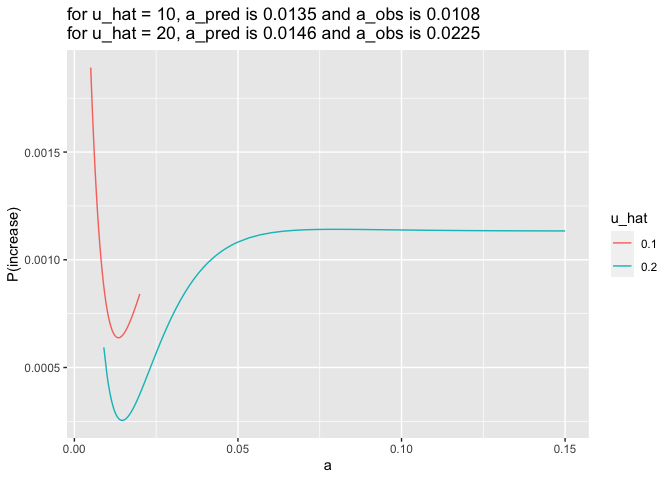
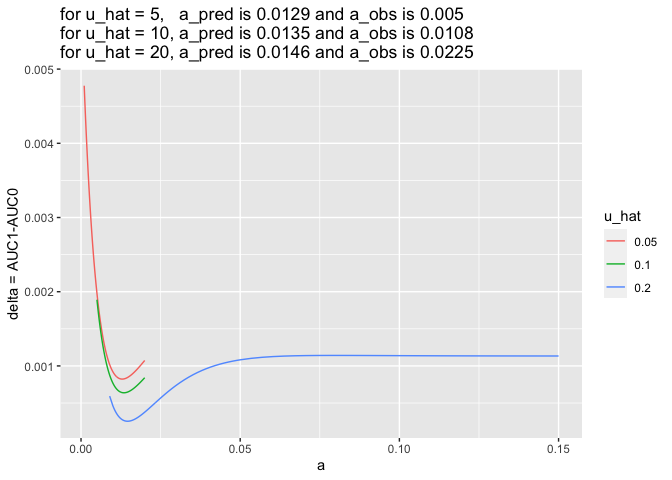
added u5

diff --git a/cluster/uhat_comparison.md b/cluster/uhat_comparison.md
@@ -3,7 +3,7 @@ uhat_comparison
 Isabel Kim
 3/30/2022
 
-## u_hat = 10 vs u_hat = 20 - a vs P(increase) on the same axes
+## u_hat = 5 vs u_hat = 10 vs u_hat = 20 - a vs P(increase) on the same axes
 
 ``` r
 library(tidyverse)
@@ -52,7 +52,21 @@ summary_u20 = read_csv("/Users/isabelkim/Desktop/year2/underdominance/reaction-d
 ``` r
 obs_vs_pred_u20 = get_a_pred_and_a_obs(summary_u20)
 
-compiled = rbind(summary_u10, summary_u20)
+summary_u5 = read_csv("/Users/isabelkim/Desktop/year2/underdominance/reaction-diffusion/cluster/u_hat=0.05_run/csvs/uhat_5_u0.001_to_0.02_summary.csv")
+```
+
+    ## Rows: 216 Columns: 7
+    ## ── Column specification ────────────────────────────────────────────────────────
+    ## Delimiter: ","
+    ## dbl (7): a, sigma, beta, k, u_hat, delta, p_increase
+    ## 
+    ## ℹ Use `spec()` to retrieve the full column specification for this data.
+    ## ℹ Specify the column types or set `show_col_types = FALSE` to quiet this message.
+
+``` r
+obs_vs_pred_u5 = get_a_pred_and_a_obs(summary_u5)
+
+compiled = rbind(summary_u5,summary_u10, summary_u20)
 compiled$u_hat = as.character(compiled$u_hat)
 
 compiled_plot = ggplot(data = compiled, aes(x = a, y = p_increase, color = u_hat)) +
@@ -60,11 +74,17 @@ compiled_plot = ggplot(data = compiled, aes(x = a, y = p_increase, color = u_hat
   xlab("a") +
   ylab("P(increase)") +
   xlim(0, 0.05) +
-  geom_vline(xintercept = obs_vs_pred_u10$a_pred, color = "coral1") +
+  geom_vline(xintercept = obs_vs_pred_u5$a_pred, color = "coral1") +
+  geom_vline(xintercept = obs_vs_pred_u10$a_pred, color = "green") +
   geom_vline(xintercept = obs_vs_pred_u20$a_pred, color = "mediumturquoise") +
-  labs(title = paste0("for u_hat = 10, a_pred is ", round(obs_vs_pred_u10$a_pred,4), " and a_obs is ", round(obs_vs_pred_u10$a_obs, 4), "\nfor u_hat = 20, a_pred is ", round(obs_vs_pred_u20$a_pred,4), " and a_obs is ", round(obs_vs_pred_u20$a_obs,4)))
+  labs(title = paste0("for u_hat = 5,   a_pred is ", round(obs_vs_pred_u5$a_pred, 4),
+                      " and a_obs is ", round(obs_vs_pred_u5$a_obs, 4),
+                      "\nfor u_hat = 10, a_pred is ", round(obs_vs_pred_u10$a_pred,4), 
+                      " and a_obs is ", round(obs_vs_pred_u10$a_obs, 4), 
+                      "\nfor u_hat = 20, a_pred is ", round(obs_vs_pred_u20$a_pred,4), 
+                      " and a_obs is ", round(obs_vs_pred_u20$a_obs,4)))
 
-#ggsave(filename = "/Users/isabelkim/Desktop/year2/underdominance/reaction-diffusion/cluster/uhat20_vs_uhat10.png", plot = compiled_plot)
+#ggsave(filename = "/Users/isabelkim/Desktop/year2/underdominance/reaction-diffusion/cluster/uhat20_vs_uhat10_vs_uhat5.png", plot = compiled_plot)
 
 compiled_plot
 ```
@@ -75,10 +95,11 @@ compiled_plot
 
 It makes sense that when the invasion frequency is lower, a smaller
 release area is required in order for the drive to spread – this is why
-the coral line (uhat=10) is behind the blue line (uhat=20). The observed
-values of a that cause P(increase)=50% are about 0.01 apart. However,
-the predicted values of a are way too close. delta should be more
-sensitive to changes in u_hat.
+the coral line (uhat=5) is behind the green line (uhat=10) and the green
+line (uhat=10) is behind the blue line (uhat=20). The observed values of
+a that cause P(increase)=50% are about 0.005-0.01 apart. However, the
+predicted values of a are way too close. delta should be more sensitive
+to changes in u_hat.
 
 ## a vs delta for different u_hat
 
@@ -86,8 +107,13 @@ sensitive to changes in u_hat.
 compiled_delta_plot = ggplot(data = compiled, aes(x = a, y = delta, color = u_hat)) +
   geom_line() +
   xlab("a") +
-  ylab("P(increase)") +
-  labs(title = paste0("for u_hat = 10, a_pred is ", round(obs_vs_pred_u10$a_pred,4), " and a_obs is ", round(obs_vs_pred_u10$a_obs, 4), "\nfor u_hat = 20, a_pred is ", round(obs_vs_pred_u20$a_pred,4), " and a_obs is ", round(obs_vs_pred_u20$a_obs,4)))
+  ylab("delta = AUC1-AUC0") +
+  labs(title = paste0("for u_hat = 5,   a_pred is ", round(obs_vs_pred_u5$a_pred, 4),
+                      " and a_obs is ", round(obs_vs_pred_u5$a_obs, 4),
+                      "\nfor u_hat = 10, a_pred is ", round(obs_vs_pred_u10$a_pred,4), 
+                      " and a_obs is ", round(obs_vs_pred_u10$a_obs, 4), 
+                      "\nfor u_hat = 20, a_pred is ", round(obs_vs_pred_u20$a_pred,4), 
+                      " and a_obs is ", round(obs_vs_pred_u20$a_obs,4)))
 
 compiled_delta_plot
 ```
@@ -95,5 +121,5 @@ compiled_delta_plot
 ![](uhat_comparison_files/figure-gfm/unnamed-chunk-2-1.png)<!-- -->
 
 Where they overlap, these curves have very similar shapes, but the
-P(increase) is always higher when u_hat=10% (makes sense with a lower
-invasion frequency).
+P(increase) is always higher when u_hat is lower (makes sense that with
+a lower invasion frequency, AUC will increase more).
